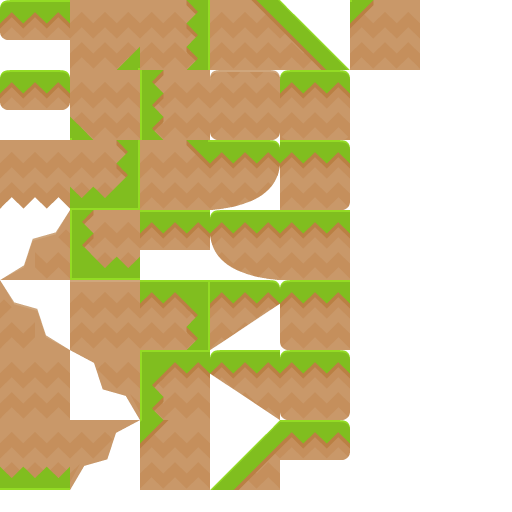
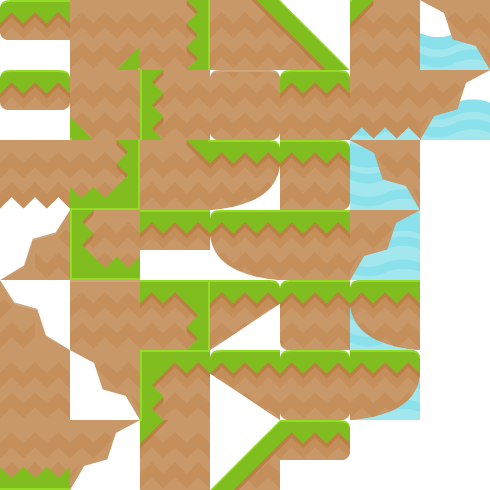
Añadido sprites del mar y añadida colison con caja

diff --git a/js/game/Level.js b/js/game/Level.js
@@ -26,6 +26,7 @@ Level.prototype = {
     //this.map.addTilesetImage('heart', 'heart_image');
     //this.map.setCollision([0,1,2,3,4,5,6,7,8,9,10,11,12]);
     this.map.setCollisionBetween(0,48);
+    this.map.setCollision([81]);
 
     this.layer = this.map.createLayer('Tile Layer 1');
     this.layer.resizeWorld();
